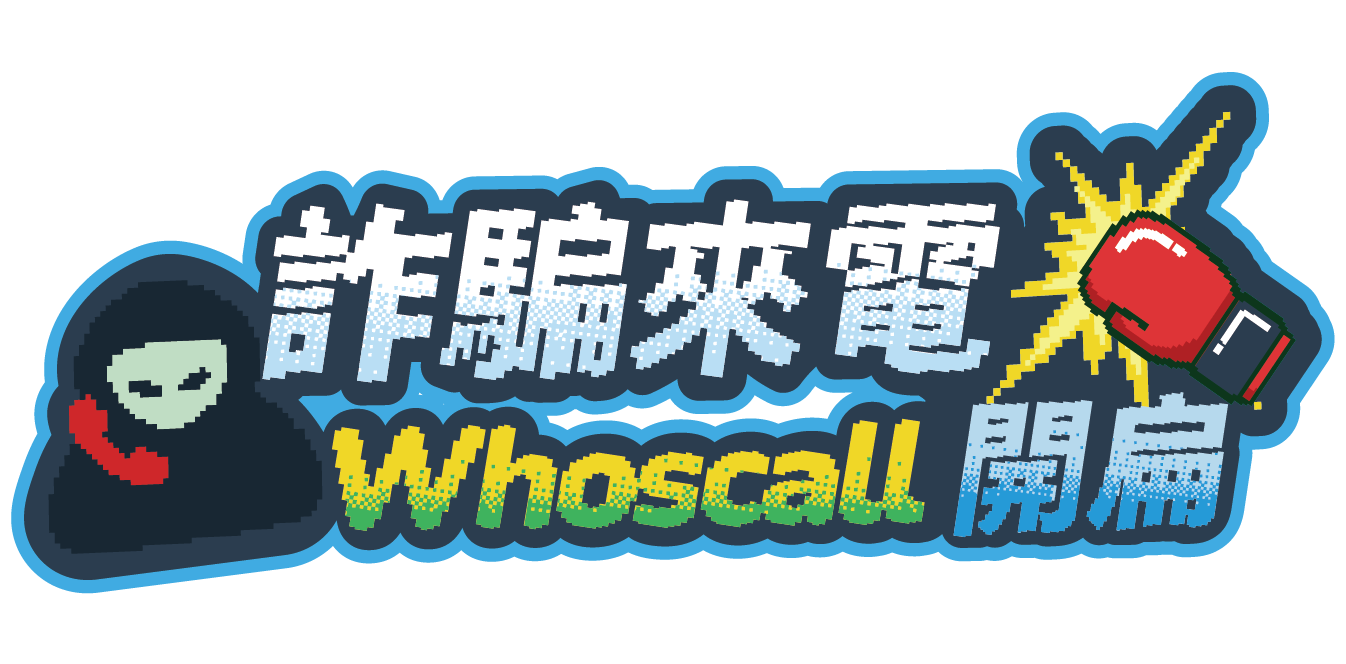
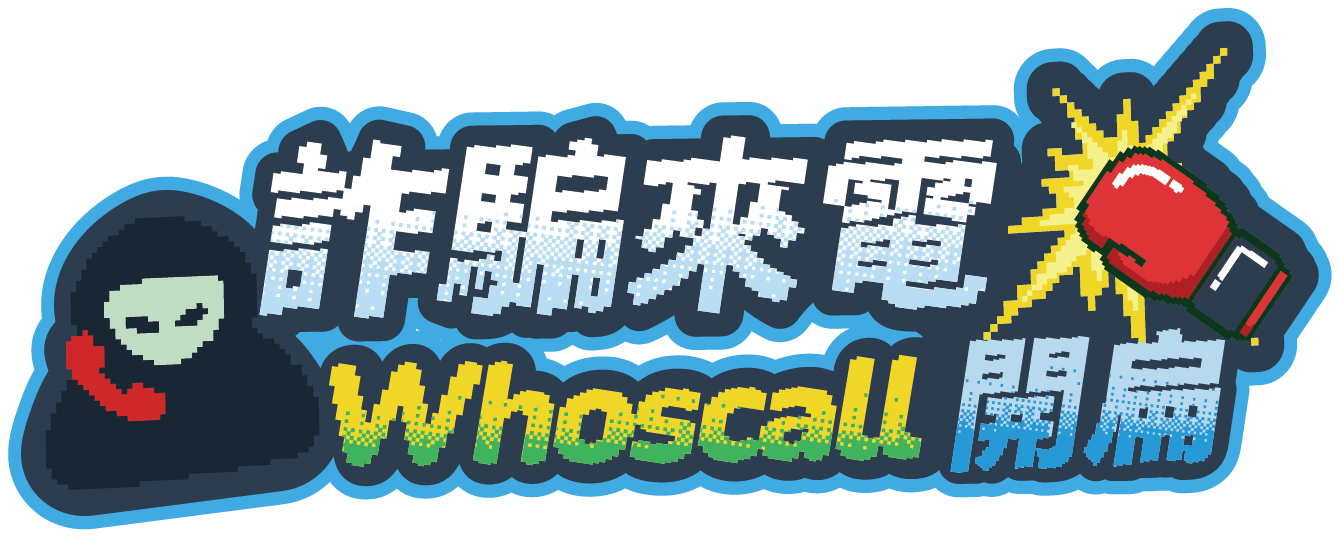
Tighten the title lockup gap and turn registration into a yellow arcade button.

diff --git a/src/components/punchboard/Punchboard.tsx b/src/components/punchboard/Punchboard.tsx
@@ -650,7 +650,7 @@ export function Punchboard({ headingLevel = "h1" }: { headingLevel?: "h1" | "h2"
           }}
         />
         <div className="relative z-[1]">
-        <div className="relative mb-2 flex items-center justify-center">
+        <div className="relative flex items-center justify-center">
           <PunchBrandLockup />
         </div>
         {arrival ? (
@@ -664,7 +664,7 @@ export function Punchboard({ headingLevel = "h1" }: { headingLevel?: "h1" | "h2"
           />
         ) : null}
 
-        <div className="relative mt-2">
+        <div className="relative mt-1">
           <Heading className="sr-only">詐騙來電，Whoscall 開扁</Heading>
           <img
             src={withBasePath("/images/punchboard/event-title.png")}
@@ -764,7 +764,7 @@ export function Punchboard({ headingLevel = "h1" }: { headingLevel?: "h1" | "h2"
             href={siteConfig.punchFormUrl}
             target="_blank"
             rel="noopener noreferrer"
-            className="text-[13px] text-[#15DCE8] underline underline-offset-4"
+            className="mt-1 inline-flex min-h-11 items-center justify-center border-4 border-[#c9a000] bg-[#ffd54a] px-5 text-[16px] leading-none text-[#071028] no-underline hover:bg-[#ffe27a]"
           >
             還沒報名？先填表單
           </a>
